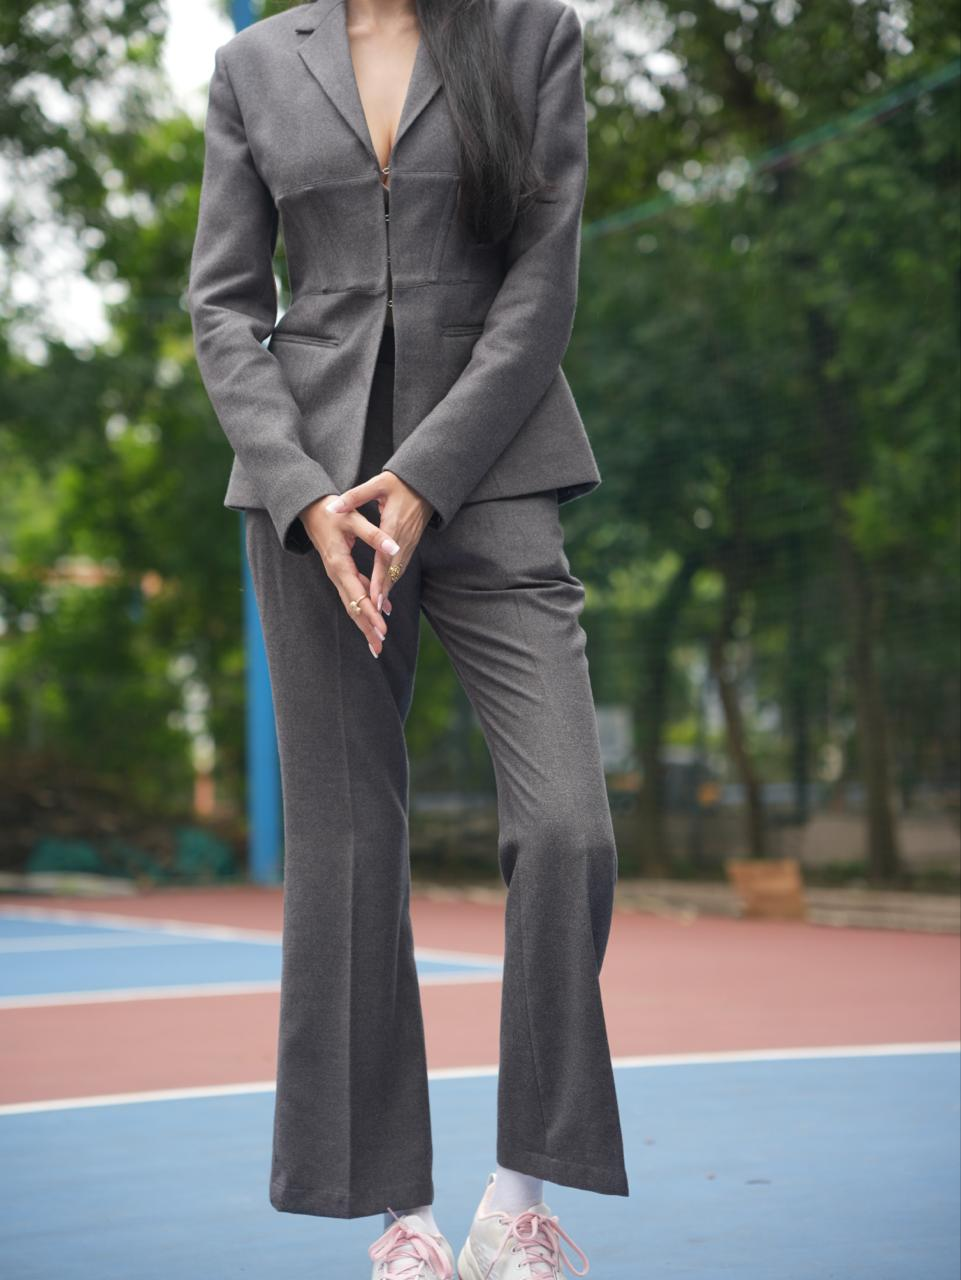
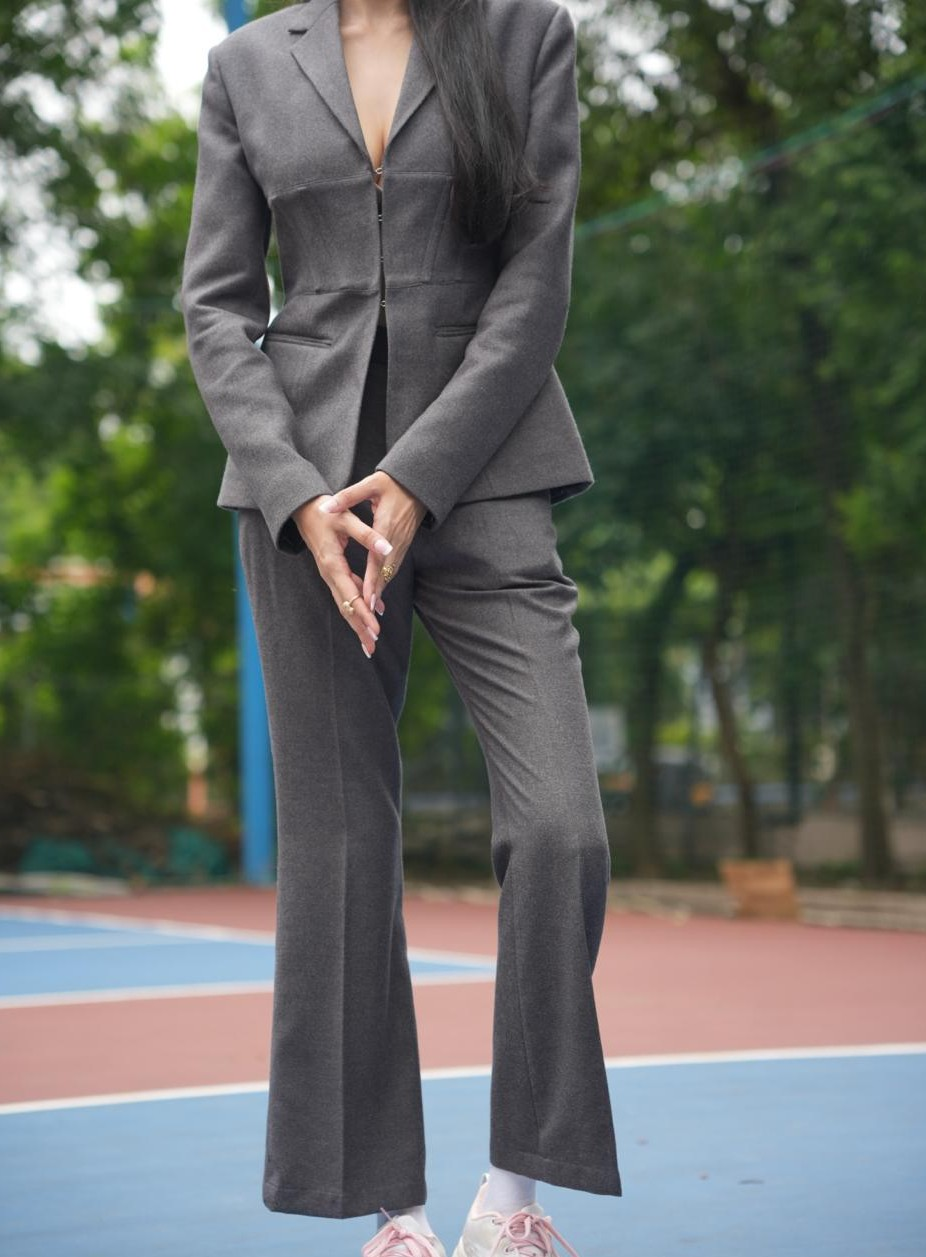
Hero/House/countdown image and layout updates
- Hero (LaunchSequence): swap portrait to section-2.png
- House (Story): reframe desktop image left, drop extra zoom transform
- Manifesto: use updated fabric-texture Roma Section.png / _RomaPhoneSection.png,
  trim outer section height to close the gap before the footer row (page.tsx)
- Countdown wordmark: add "It's ... o'clock" around the logo using a tight-cropped
  baseline-aligned variant (logo-light-tight.png); stack it above/below the logo
  on mobile via CSS breakpoints instead of the flaky isMobile JS hook
- Countdown separators: replace the single dot with a smaller two-dot colon,
  shown on both mobile and desktop
- Sync product-5.jpeg and logo-light.png with their current edited versions

diff --git a/src/components/LaunchSequence.tsx b/src/components/LaunchSequence.tsx
@@ -180,23 +180,39 @@ function CountdownOverlay({ progress, reduced, launchISO }: { progress: number; 
             padding: `clamp(40px,6vh,80px) clamp(1.2rem, 5vw, 5rem) 0`,
           }}
         >
-          <img
-            src="/images/logo-light.png"
-            alt="RORA"
-            style={
-              isMobile
-                ? {
-                    width: "min(68vw, 300px)",
-                    height: "auto",
-                    marginBottom: "clamp(1rem, 2.2vh, 1.8rem)",
-                  }
-                : {
-                    height: "clamp(72px, min(11vw, 13vh), 130px)",
-                    width: "auto",
-                    marginBottom: "clamp(1rem, 2vh, 1.8rem)",
-                  }
-            }
-          />
+          <div
+            className="flex flex-col md:flex-row items-center md:items-baseline justify-center flex-nowrap md:flex-wrap gap-4 md:gap-3 mb-[clamp(1rem,2.2vh,1.8rem)] md:mb-[clamp(1rem,2vh,1.8rem)]"
+          >
+            <span
+              className="text-[clamp(1.9rem,9vw,3rem)] md:text-[clamp(1.9rem,min(5.2vw,6vh),3.4rem)]"
+              style={{
+                fontFamily: SERIF,
+                fontStyle: "italic",
+                fontWeight: 300,
+                color: "#F5F1E6",
+                lineHeight: 1,
+              }}
+            >
+              It&apos;s
+            </span>
+            <img
+              src="/images/logo-light-tight.png"
+              alt="RORA"
+              className="w-[min(70vw,320px)] h-auto md:w-auto md:h-[clamp(42px,min(6.4vw,7.6vh),76px)]"
+            />
+            <span
+              className="text-[clamp(1.9rem,9vw,3rem)] md:text-[clamp(1.9rem,min(5.2vw,6vh),3.4rem)]"
+              style={{
+                fontFamily: SERIF,
+                fontStyle: "italic",
+                fontWeight: 300,
+                color: "#F5F1E6",
+                lineHeight: 1,
+              }}
+            >
+              o&apos;clock
+            </span>
+          </div>
 
           <div
             style={{
@@ -256,18 +272,34 @@ function CountdownOverlay({ progress, reduced, launchISO }: { progress: number; 
               >
                 {i > 0 && (
                   <span
-                    className="countdown-sep hidden sm:block"
+                    className="countdown-sep"
                     style={{
-                      fontFamily: SERIF,
-                      fontWeight: 300,
-                      fontSize: "clamp(3rem, min(9vw, 9.5vh), 9rem)",
-                      color: C.blue,
-                      lineHeight: 1,
+                      display: "flex",
+                      flexDirection: "column",
+                      alignItems: "center",
+                      justifyContent: "center",
+                      gap: "clamp(0.2rem, 0.7vw, 0.55rem)",
+                      height: "clamp(3.6rem, min(11vw, 11vh), 10.5rem)",
                       padding: "0 clamp(0.15rem, 0.5vw, 0.6rem)",
                       userSelect: "none",
                     }}
                   >
-                    ·
+                    <span
+                      style={{
+                        width: "clamp(0.18rem, 0.55vw, 0.42rem)",
+                        height: "clamp(0.18rem, 0.55vw, 0.42rem)",
+                        borderRadius: "50%",
+                        background: C.blue,
+                      }}
+                    />
+                    <span
+                      style={{
+                        width: "clamp(0.18rem, 0.55vw, 0.42rem)",
+                        height: "clamp(0.18rem, 0.55vw, 0.42rem)",
+                        borderRadius: "50%",
+                        background: C.blue,
+                      }}
+                    />
                   </span>
                 )}
                 <div
@@ -503,7 +535,7 @@ function NormalHero({ heroReveal, reduced }: { heroReveal: number; reduced: bool
         }}
       >
         <img
-          src="/images/Color 2-3.png"
+          src="/images/section-2.png"
           alt="RORA editorial — structured womenswear"
           className="h-full w-full object-cover object-[center_30%] lg:object-[center_top]"
         />

diff --git a/src/components/Manifesto.tsx b/src/components/Manifesto.tsx
@@ -4,10 +4,9 @@ import type { MouseEvent } from 'react';
 
 /**
  * The Manifesto / Roma Section Artwork Stage (The Final Section):
- * Displays `_RomaPhoneSection.png` on phone screens. On larger screens, uses a real fabric-texture
- * crop (fabric-texture.jpg, pulled from the same shoot) with the alpha-masked wordmark
- * (rora-wordmark.png) layered near the top, so desktop matches the mobile fabric backdrop instead
- * of a flat fill, with a shorter section and tighter gap to the footer row.
+ * Displays `_RomaPhoneSection.png` on phone screens and `Roma Section.png` (fabric texture with the
+ * wordmark baked in) on larger screens, so desktop matches the mobile fabric backdrop instead of a
+ * flat fill, with a shorter section and tighter gap to the footer row.
  */
 export function Manifesto() {
   const handleScrollTop = (e: MouseEvent<HTMLAnchorElement>) => {
@@ -30,21 +29,12 @@ export function Manifesto() {
         className="block md:hidden absolute inset-0 h-full w-full object-cover object-center pointer-events-none select-none z-0"
       />
 
-      {/* Desktop / Tablet Background: real fabric texture crop, no flat fill */}
+      {/* Desktop / Tablet Artwork: Roma Section.png (fabric texture with wordmark baked in) */}
       {/* eslint-disable-next-line @next/next/no-img-element */}
       <img
-        src="/images/fabric-texture.jpg"
-        alt=""
-        aria-hidden
+        src="/images/Roma Section.png"
+        alt="RORA Tailored Posture artwork"
         className="hidden md:block absolute inset-0 h-full w-full object-cover object-center pointer-events-none select-none z-0"
-      />
-
-      {/* Desktop / Tablet Wordmark: alpha-masked RORA, layered on the fabric near the top */}
-      {/* eslint-disable-next-line @next/next/no-img-element */}
-      <img
-        src="/images/rora-wordmark.png"
-        alt="RORA"
-        className="hidden md:block absolute top-8 lg:top-10 left-1/2 -translate-x-1/2 w-[60%] max-w-2xl pointer-events-none select-none z-0"
       />
 
       {/* Ambient Vignette at Bottom for Overlay Legibility */}

diff --git a/src/components/Story.tsx b/src/components/Story.tsx
@@ -6,7 +6,7 @@ import { Reveal } from './Reveal';
  * The House Section ("Built for the way you actually live"):
  * Features model image section-4.jpeg.
  * On Mobile: Pulled down & centered so her head and hair are 100% complete and intact without top clipping.
- * On Desktop: Zoomed in (scale 1.45) & pulled left, while brown coffee (#3D2620) blur covers the right side text.
+ * On Desktop: object-position pulled left so both the left hand and full torso fill the frame, while brown coffee (#3D2620) blur covers the right side text.
  */
 export function Story() {
   return (
@@ -26,19 +26,12 @@ export function Story() {
           className="lg:hidden h-full w-full object-cover object-[48%_14%]"
         />
 
-        {/* Desktop View Image: Zoomed in (scale 1.45) & pulled left/up */}
+        {/* Desktop View Image: plain object-cover, pulled left so the full torso and left hand fill the frame */}
         {/* eslint-disable-next-line @next/next/no-img-element */}
         <img
           src="/images/section-4.jpeg"
           alt="Model in RORA cerulean pinstripe vest and wide trousers"
-          className="hidden lg:block h-full w-full object-cover object-[0%_0%]"
-          style={{
-            transform: 'scale(1.45) translateX(-18%) translateY(-12%) translateZ(0)',
-            transformOrigin: 'left top',
-            imageRendering: '-webkit-optimize-contrast' as any,
-            WebkitBackfaceVisibility: 'hidden',
-            backfaceVisibility: 'hidden',
-          }}
+          className="hidden lg:block h-full w-full object-cover object-[20%_50%]"
         />
 
         {/* Soft Right Edge Dissolve Mask into Brown Background */}

diff --git a/src/app/page.tsx b/src/app/page.tsx
@@ -98,7 +98,7 @@ export default function Page() {
           </div>
 
           {/* Card 6: Manifesto / Roma Section Artwork Stage (Placed RIGHT AFTER THE FORM) */}
-          <div className="relative z-60 min-h-[85vh] sm:min-h-[92vh] w-full bg-[#EDE7DE] snap-start">
+          <div className="relative z-60 min-h-[85vh] sm:min-h-[92vh] md:min-h-[65vh] w-full bg-[#EDE7DE] snap-start">
             <Manifesto />
           </div>
         </main>
